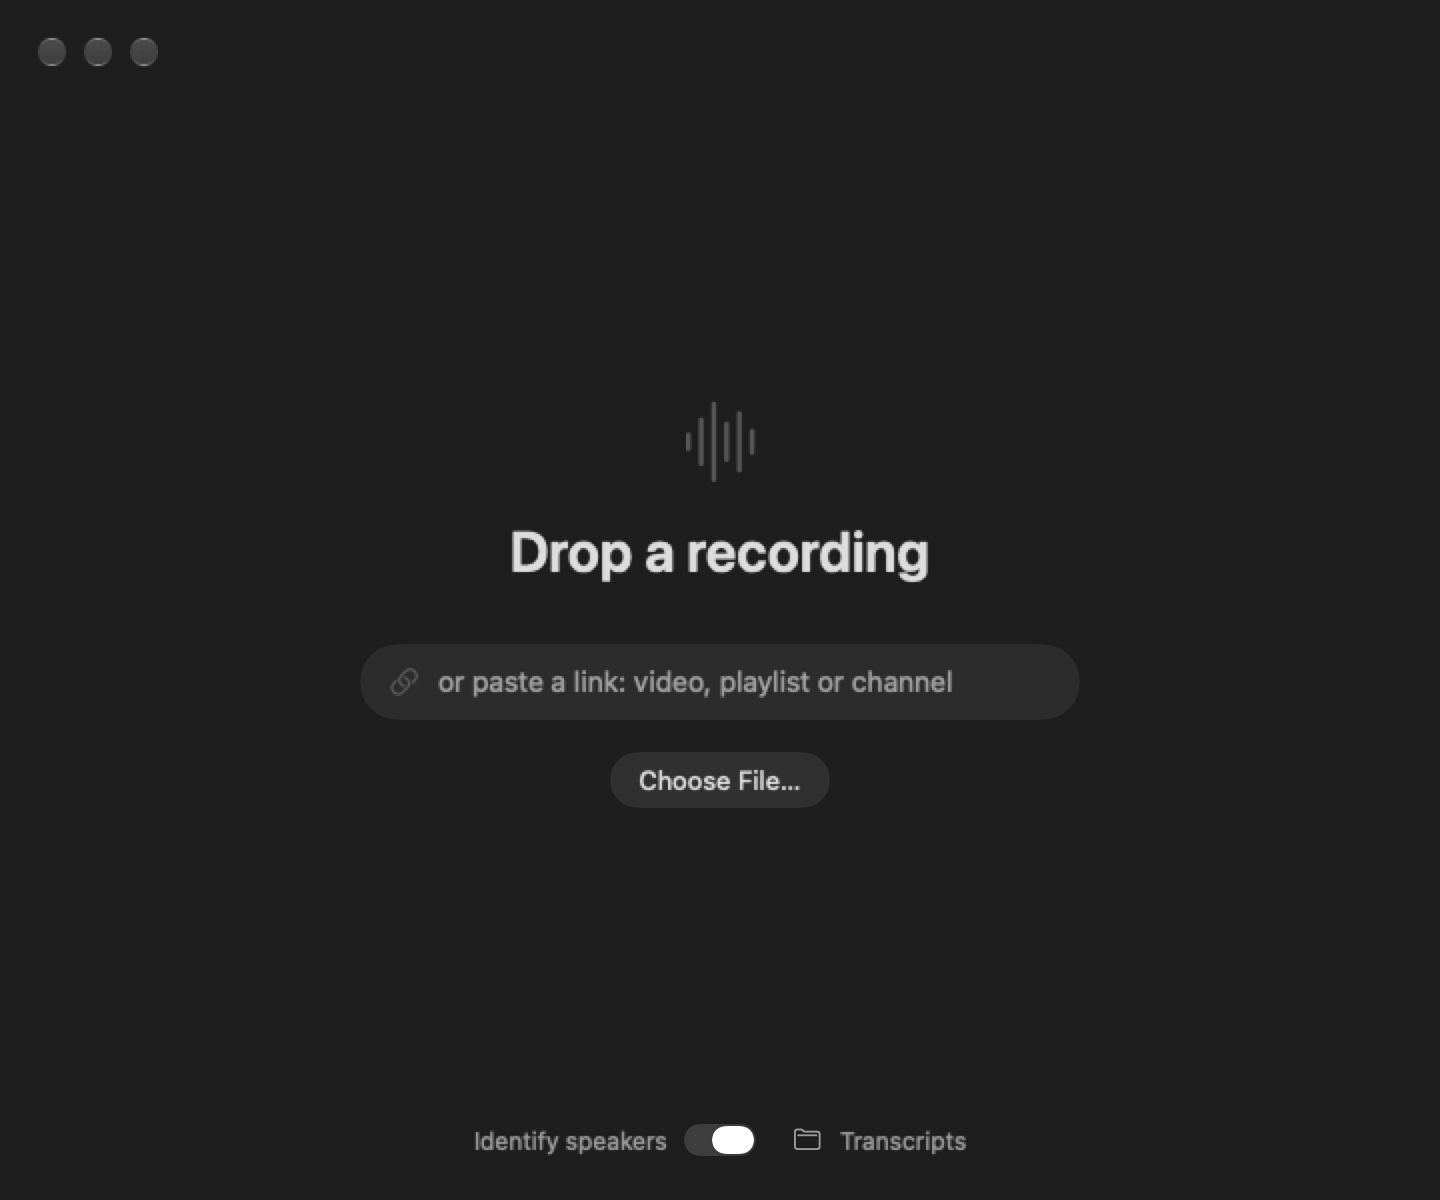
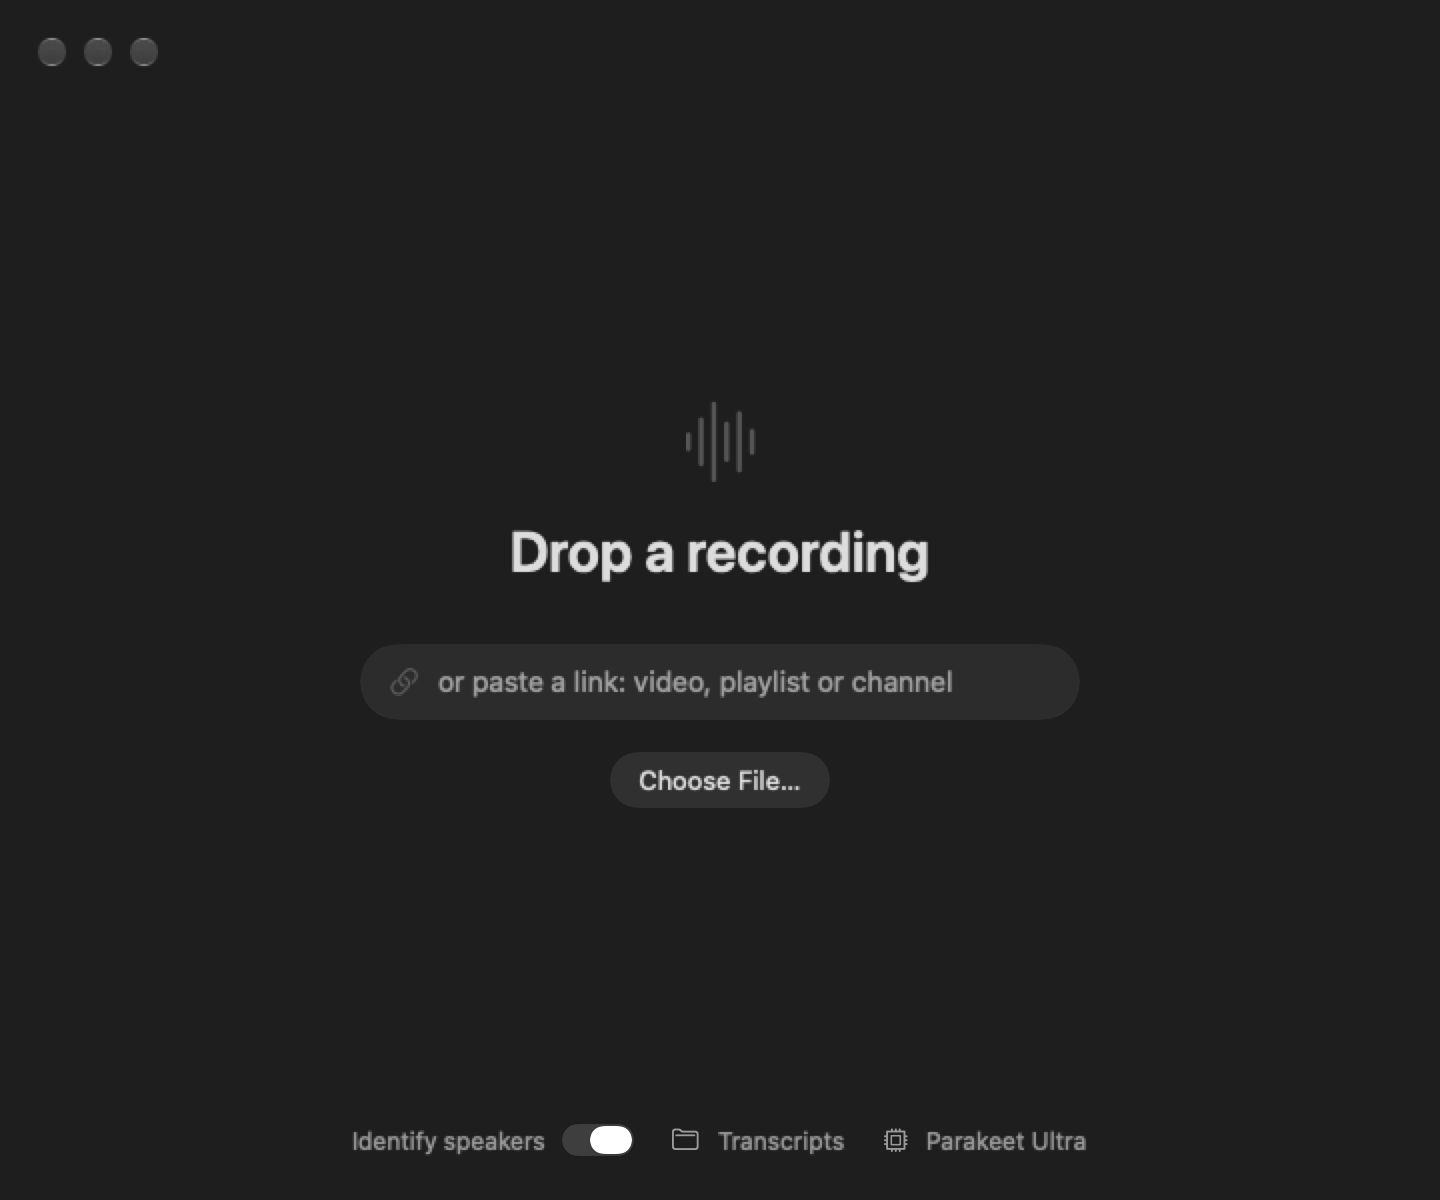
Show the speech model in the app; shorten the README
The model name now appears on the start, progress, queue and transcript
screens. Also includes look-ahead downloads for queued links, time-left
estimates and automatic saving, which were built since the first commit.

Changed region(s): [[0.25, 0.925, 0.75, 0.9867]]

diff --git a/Sources/Scribe/Views.swift b/Sources/Scribe/Views.swift
@@ -160,6 +160,8 @@ struct StartView: View {
                 Button { model.showLibrary() } label: { Label("Transcripts", systemImage: "folder") }
                     .buttonStyle(.plain)
                     .help("Every transcript is saved here as a text file (⇧⌘O)")
+                Label(Engine.modelName, systemImage: "cpu")
+                    .help("The speech model doing the transcribing. It runs on this Mac; nothing is uploaded.")
             }
             .font(.system(size: 12))
             .foregroundStyle(.secondary)
@@ -296,11 +298,28 @@ struct WorkingView: View {
         .ignoresSafeArea(.container, edges: .top)
         .animation(reduceMotion ? nil : .smooth(duration: 0.3), value: model.thumbnail)
         .overlay(alignment: .bottom) {
-            Text(Engine.modelLine + (model.waitingCount > 0 ? "  ·  \(model.waitingCount) more waiting" : ""))
-                .font(.system(size: 11))
-                .foregroundStyle(.tertiary)
-                .padding(.bottom, 22)
+            HStack(spacing: 10) {
+                ModelChip()
+                if model.waitingCount > 0 {
+                    Text("\(model.waitingCount) more waiting").font(.system(size: 12)).foregroundStyle(.secondary)
+                }
+            }
+            .padding(.bottom, 22)
         }
+    }
+}
+
+/// Says which speech model is doing the work, and that it is doing it here.
+struct ModelChip: View {
+    var body: some View {
+        Label("\(Engine.modelName) · on this Mac", systemImage: "cpu")
+            .font(.system(size: 12))
+            .foregroundStyle(.secondary)
+            .padding(.horizontal, 12)
+            .frame(height: 26)
+            .background(.primary.opacity(0.06), in: Capsule())
+            .help("The speech model doing the transcribing. It runs on this Mac; nothing is uploaded.")
+            .accessibilityLabel("Speech model: \(Engine.modelName), running on this Mac")
     }
 }
 
@@ -617,10 +636,8 @@ struct BatchView: View {
                         Divider().opacity(0.5)
                     }
                 }
-                Text(Engine.modelLine)
-                    .font(.system(size: 11))
-                    .foregroundStyle(.tertiary)
-                    .padding(.top, 14)
+                ModelChip()
+                    .padding(.top, 16)
             }
             .frame(maxWidth: 560, alignment: .leading)
             .padding(.horizontal, 32)

diff --git a/Sources/Scribe/Engine.swift b/Sources/Scribe/Engine.swift
@@ -183,7 +183,7 @@ enum Mark {
 enum Engine {
     static let modelVersion: AsrModelVersion = .ultra
     /// What the window says is doing the work.
-    static let modelLine = "Parakeet Ultra · on this Mac"
+    static let modelName = "Parakeet Ultra"
     /// The model whose punctuation and capitals are borrowed (see `copyPunctuation`).
     static let polishVersion: AsrModelVersion = .v2
     /// Off (`--fast`) skips the punctuation pass: about twice as quick, plainer punctuation.

diff --git a/Sources/Scribe/TranscriptView.swift b/Sources/Scribe/TranscriptView.swift
@@ -130,6 +130,7 @@ enum Typesetter {
         if t.wallSeconds > 0 {
             let w = t.wallSeconds
             facts.append("transcribed in " + (w < 10 ? String(format: "%.1f s", w) : w < 100 ? "\(Int(w)) s" : Transcript.clock(w)))
+            facts.append("by " + Engine.modelName)
         }
         add(facts.joined(separator: "  ·  ") + "\n", smallFont, .secondaryLabelColor, style { $0.paragraphSpacing = (size * 0.5).rounded() })
         if let note = t.speakerNote {

diff --git a/README.md b/README.md
@@ -1,192 +1,66 @@
 <div align="center">
 
-<img src="docs/icon.png" width="112" alt="Scribe icon">
+<img src="docs/icon.png" width="96" alt="Scribe icon">
 
 # Scribe
 
-**Transcription for the Mac that stays out of your way.**<br>
-Drop a file or paste a link. Get a clean transcript with speaker labels. Nothing leaves your Mac.
-
-[![Release](https://img.shields.io/github/v/release/WHATDOESTHEFOXSAY2U/scribe?color=0a84ff&label=release)](https://github.com/WHATDOESTHEFOXSAY2U/scribe/releases/latest)
-![Platform](https://img.shields.io/badge/macOS-26%2B%20·%20Apple%20Silicon-black)
-[![Licence](https://img.shields.io/badge/licence-MIT-green)](LICENSE)
-[![Forks welcome](https://img.shields.io/badge/forks-welcome-ff9f0a)](#make-it-yours)
+**Fast, private transcription for the Mac.**<br>
+Drop a file or paste a link. Get a transcript with speaker labels. Nothing leaves your Mac.
 
 <br>
 
-<img src="docs/start.png" width="640" alt="The start screen: drop a recording or paste a link">
+<img src="docs/start.png" width="620" alt="The start screen">
 
 </div>
 
-<br>
-
-## Why it exists
-
-Most transcription apps are big, slow to open, and full of settings. Scribe is the opposite, on purpose.
-
-| | |
-|---|---|
-| **Fast** | A 17-minute call in about 15 seconds on an M1 Pro, speaker labels included. That is roughly 65× real time. |
-| **Lean** | A 15 MB app that idles around 15–20 MB of memory. About 3,600 lines of Swift. One dependency. |
-| **Simple** | One window. Drop, paste, read. No accounts, no settings screen, no model picker. |
-| **Private** | The speech models run on your Mac's Neural Engine. No audio or text is uploaded anywhere. |
-| **Accurate** | The lowest word error rate of eleven on-device models tested, ahead of Whisper large-v3. |
-
 ## Install
-
-Paste this into Terminal:
 
 ```bash
 curl -fsSL https://raw.githubusercontent.com/WHATDOESTHEFOXSAY2U/scribe/main/install.sh | sh
 ```
 
-That puts Scribe in Applications, installs `yt-dlp` and `ffmpeg` with [Homebrew](https://brew.sh) if they are missing, and adds a `scribe` terminal command. The [script](install.sh) is 40 lines; read it first if you like.
-
-**You need:** an Apple Silicon Mac (M1 or later), macOS 26 or later, and about 1.1 GB of disk for the speech models, which download once on first use.
-
-<details>
-<summary><b>Install by hand instead</b></summary>
-
-<br>
-
-1. Download `Scribe.zip` from the [latest release](https://github.com/WHATDOESTHEFOXSAY2U/scribe/releases/latest), unzip it, and move `Scribe.app` to Applications.
-2. Scribe is not notarised by Apple, so macOS will refuse to open it the first time. Go to System Settings › Privacy & Security and click **Open Anyway**, or run:
-   ```bash
-   xattr -dr com.apple.quarantine /Applications/Scribe.app
-   ```
-3. For links, install the two helpers: `brew install yt-dlp ffmpeg`. Local files in common formats work without them.
-
-</details>
+Needs an Apple Silicon Mac on macOS 26 or later. The speech models (about 1.1 GB) download once on first use. Prefer to do it by hand? Grab `Scribe.zip` from the [latest release](https://github.com/WHATDOESTHEFOXSAY2U/scribe/releases/latest); macOS will ask you to click **Open Anyway** in System Settings › Privacy & Security, because the app is not notarised.
 
 ## What it does
 
+- **Files:** any video or audio.
+- **Links:** YouTube and anything else [yt-dlp](https://github.com/yt-dlp/yt-dlp) supports.
+- **Playlists and channels:** paste the link, pick how many, walk away.
+- **Speaker labels**, a **queue**, and every transcript saved to `~/Documents/Scribe`.
+- **Terminal:** `scribe recording.mp4`, with `--srt`, `--timestamps`, `--no-speakers`, `--fast` and `-o file`.
+
 <table>
 <tr>
-<td width="50%"><img src="docs/working.png" alt="Transcribing, with live speed, memory and time left"></td>
-<td width="50%"><img src="docs/transcript.png" alt="A finished transcript with speaker labels"></td>
-</tr>
-<tr>
-<td align="center"><sub>Live speed, memory and time left</sub></td>
-<td align="center"><sub>Speaker turns you can read, search and copy</sub></td>
+<td width="50%"><img src="docs/working.png" alt="Transcribing"></td>
+<td width="50%"><img src="docs/transcript.png" alt="A transcript"></td>
 </tr>
 </table>
 
-- **Any file.** Video or audio, in any format macOS or ffmpeg can read.
-- **Any link.** YouTube and the many other sites [yt-dlp](https://github.com/yt-dlp/yt-dlp) supports.
-- **Whole playlists and channels.** Paste the link, choose how many, walk away. Each one is saved as a numbered text file, and the next videos download while the current one is transcribed.
-- **Speaker labels.** Who said what, as Speaker 1, Speaker 2 and so on.
-- **A queue.** Add more while one is running. Going back never stops a job.
-- **Saved for you.** Every transcript lands in `~/Documents/Scribe` as a `.txt` file. Copy it, or save subtitles as `.srt`.
+## How fast
 
-<div align="center">
-<img src="docs/queue.png" width="560" alt="A playlist being worked through">
-</div>
+A 17-minute call in about 15 seconds on an M1 Pro, speaker labels included. The app is 15 MB and idles around 20 MB of memory.
 
-### From the terminal
+## The model
 
-```bash
-scribe recording.mp4                      # prints the transcript
-scribe "https://youtu.be/…" -o talk.txt   # saves it
-scribe recording.mp4 --srt -o subs.srt    # subtitles
-scribe recording.mp4 --timestamps         # a timestamp on every sentence
-scribe recording.mp4 --no-speakers        # skip speaker labels
-scribe recording.mp4 --fast               # skip the punctuation pass
-```
+[Parakeet Ultra](https://huggingface.co/moondream/parakeet-ultra), a 0.6B-parameter speech model, running on the Neural Engine through [FluidAudio](https://github.com/FluidInference/FluidAudio). Tested against ten other on-device models on 86 minutes of human-transcribed audio, it had the lowest word error rate (9.4%, with Whisper large-v3 at 10.3%). A second pass with Parakeet v2 fixes punctuation, and FluidAudio's diarizer labels the speakers.
 
-## Under the hood
+It covers 25 European languages. Hindi, Chinese, Japanese, Arabic and others are not supported yet.
 
-| Step | What does it |
-|---|---|
-| **Words** | [Parakeet Ultra](https://huggingface.co/moondream/parakeet-ultra), a 0.6B-parameter speech model, run through [FluidAudio](https://github.com/FluidInference/FluidAudio) on the Neural Engine |
-| **Punctuation** | A second pass with Parakeet v2. Only its punctuation and capitals are copied onto the first pass's words; the words never change |
-| **Speakers** | FluidAudio's offline diarizer: pyannote segmentation, WeSpeaker embeddings, VBx clustering |
-| **Links** | `yt-dlp` fetches the smallest audio-only stream |
-| **Memory** | Each job runs in a child process that exits when it is done, so the app gives everything back |
+## Fork it
 
-**How the model was chosen.** Eleven on-device models were scored against 86 minutes of human-transcribed audio: Indian-accented conversation, earnings calls, meetings, podcasts and YouTube. Parakeet Ultra had the lowest word error rate (9.4%), ahead of Whisper large-v3 (10.3%), at a small fraction of the time and memory.
+Scribe is about 3,600 lines of Swift in six files, with one dependency. Fork it, add what you wish it had, and send a pull request.
 
-**Languages.** Parakeet Ultra covers 25 European languages. The punctuation pass is English-only and leaves other languages as the first pass wrote them. Hindi, Chinese, Japanese, Arabic and others are not supported yet.
+One rule: **keep it lean, simple and fast.** No settings screens, no new dependencies without a strong case, nothing that slows the common path, and never trade accuracy for speed.
 
-## Make it yours
-
-**Fork it. Break it. Add the thing you wish it had.** Scribe is small enough to read in an evening and change in an afternoon, and pull requests are welcome.
-
-There is one rule, and it is the whole point of the project:
-
-> **Keep it lean, simple and fast.**
-
-In practice that means a change is a good fit when you can say yes to these:
-
-- **Is it still fast?** Measure before and after (`SCRIBE_TIMING=/tmp/t.txt scribe file.mp4` writes stage timings). A feature that slows the common path needs a very good reason.
-- **Is it still light?** Nothing animates or polls while the app is idle, and idle memory stays around 20 MB.
-- **Is it still simple?** One window, no settings screen. If a feature needs a preference, it probably needs a rethink first.
-- **Does it avoid new dependencies?** There is one today. Two would need a strong case.
-- **Is the accuracy at least as good?** Never trade correct words for speed.
-
-### Ideas worth building
-
-Nobody is working on these. Take one.
-
-| Idea | Why it would be good |
-|---|---|
-| **More languages** | Fall back to a multilingual model when the audio is not in one of the 25 supported languages |
-| **A glossary** | Let people list names and jargon so they are spelled right. FluidAudio's vocabulary boosting lifted term recall from 23 to 44 of 51 in testing |
-| **Rename speakers** | Click "Speaker 1" and type a name; it updates everywhere |
-| **Click a line to hear it** | Play the audio from any sentence in the transcript |
-| **Live microphone** | Transcribe a meeting as it happens |
-| **Two-track recordings** | When a call recording has a separate microphone track, use it for exact speaker labels |
-| **More export formats** | Markdown, VTT, JSON with word timings |
-| **Notarised builds** | A signed, notarised release so nobody has to click "Open Anyway" |
-| **Resume a playlist** | Skip videos that already have a transcript in the folder |
-| **Homebrew cask** | `brew install --cask scribe` |
-
-Have a different idea? Open an issue and say what you want to build. Found a bug? An issue with the file type or link that failed is plenty.
-
-### Build it
-
-You need Xcode 26 or later.
+Ideas nobody has taken yet: more languages · a glossary for names and jargon · rename speakers · click a line to hear it · live microphone · Markdown and VTT export · notarised builds · a Homebrew cask.
 
 ```bash
 git clone https://github.com/WHATDOESTHEFOXSAY2U/scribe.git
-cd scribe
-./build.sh
+cd scribe && ./build.sh        # needs Xcode 26
 ```
 
-`build.sh` builds a release binary, assembles `Scribe.app`, signs it ad hoc, installs it to Applications and adds the `scribe` command.
-
-### Find your way around
-
-Six files in `Sources/Scribe`:
-
-| File | What lives there |
-|---|---|
-| `Engine.swift` | The whole pipeline: download, decode, recognition, speakers, punctuation, formatting |
-| `App.swift` | The window's state, the job queue, menus |
-| `Views.swift` | Start, progress, playlist and queue screens |
-| `TranscriptView.swift` | The transcript, typeset in one text view so any length scrolls smoothly |
-| `main.swift` | The command line, and the child-process mode the window uses for each job |
-| `Snapshot.swift` | Draws every screen to PNG files, so you can check a design change without clicking through the app |
-
-Two tools that make changes easier to check:
-
-```bash
-scribe --snapshot ./shots                        # every screen, light and dark, as PNG files
-SCRIBE_TIMING=/tmp/t.txt scribe recording.mp4    # where the seconds went, stage by stage
-```
-
-## Known limits
-
-- Speaker labels are sometimes wrong on very short turns, and recordings with many overlapping voices may get none.
-- Names and jargon the model has not seen can be misheard.
-- Sites that need a signed-in account (Vimeo, private or members-only videos) cannot be downloaded.
+`Engine.swift` is the pipeline, `App.swift` the state and queue, `Views.swift` the screens. `scribe --snapshot ./shots` draws every screen to PNG files, and `SCRIBE_TIMING=/tmp/t.txt scribe file.mp4` shows where the seconds went.
 
 ## Licence
 
-Scribe's own code is under the [MIT licence](LICENSE): use it, fork it, ship it. It depends on [FluidAudio](https://github.com/FluidInference/FluidAudio) (Apache 2.0) and downloads speech and speaker models that carry their own licences; see their model pages. Scribe is an independent project and is not affiliated with any of them.
-
-Only download and transcribe material you have the right to use.
-
-<div align="center">
-<br>
-<sub>If Scribe saved you some time, a star helps other people find it.</sub>
-</div>
+[MIT](LICENSE). FluidAudio is Apache 2.0, and the models carry their own licences. Only transcribe material you have the right to use.
